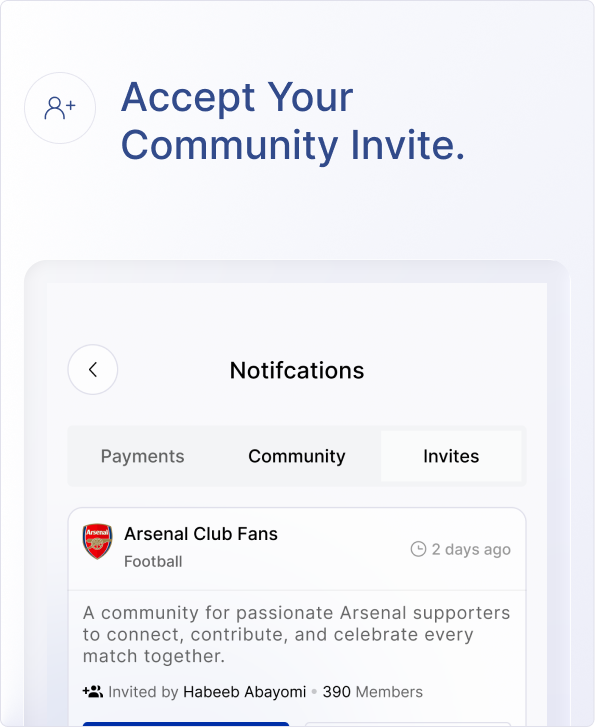
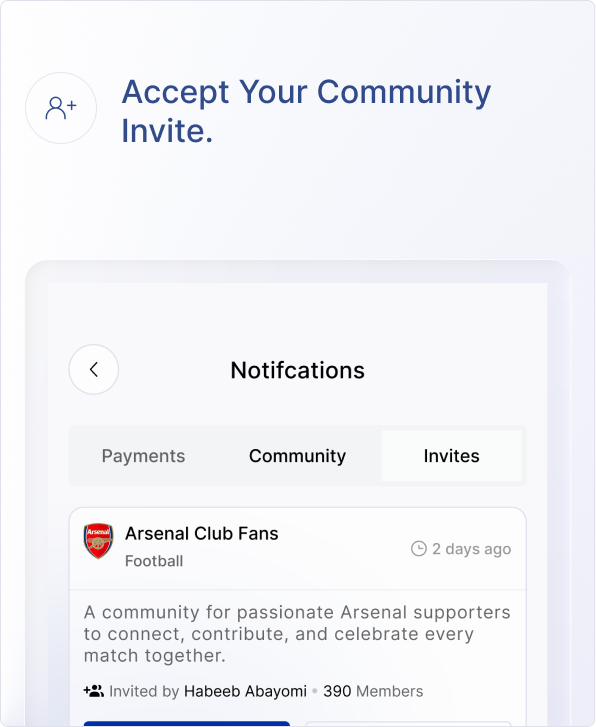
Update remaining How We Work cards to the latest Figma revision
Add Your Members now has heading-on-top like the rest (was still on
the old bottom-heading layout). Refreshed Create Community, Add
Members, Payment Plan, and Accept Invite with the newer exports that
carry the smaller heading font size already applied to Launch/Autopay.
Added dedicated mobile crops for Create Community, Add Members, and
Accept Invite instead of reusing the desktop image responsively.
Also removed the leftover bottom margin on the mobile signup mockup
to match the desktop pb-0 treatment.

diff --git a/src/components/organizations/OrganizationHowItWorks.jsx b/src/components/organizations/OrganizationHowItWorks.jsx
@@ -2,7 +2,9 @@ import { useNavigate } from "react-router-dom";
 import { motion } from "motion/react";
 import { goToApp } from "../../utils/deviceRedirect";
 import orgCreateCommunity from "../../assets/howItWorks/org-create-community.png";
+import orgCreateCommunityMobile from "../../assets/howItWorks/org-create-community-mobile.png";
 import orgAddMembers from "../../assets/howItWorks/org-add-members.png";
+import orgAddMembersMobile from "../../assets/howItWorks/org-add-members-mobile.png";
 import orgPaymentPlan from "../../assets/howItWorks/org-payment-plan.png";
 import orgLaunch from "../../assets/howItWorks/org-launch.png";
 import orgLaunchMobile from "../../assets/howItWorks/org-launch-mobile.png";
@@ -70,8 +72,8 @@ export default function OrganizationHowItWorks() {
 
       {/* Mobile — each card as a full-width responsive image, stacked */}
       <div className="md:hidden relative z-10 flex flex-col gap-4 px-4">
-        <img src={orgCreateCommunity} alt="Create your Community and get started" className="w-full h-auto rounded-[8px]" />
-        <img src={orgAddMembers} alt="Add Your Members" className="w-full h-auto rounded-[8px]" />
+        <img src={orgCreateCommunityMobile} alt="Create your Community and get started" className="w-full h-auto rounded-[8px]" />
+        <img src={orgAddMembersMobile} alt="Add Your Members" className="w-full h-auto rounded-[8px]" />
         <img src={orgPaymentPlan} alt="Create your payment plan" className="w-full h-auto rounded-[8px]" />
         <img src={orgLaunchMobile} alt="Launch Your Community" className="w-full h-auto rounded-[8px]" />
       </div>

diff --git a/src/components/members/MembersHowItWorksSection.jsx b/src/components/members/MembersHowItWorksSection.jsx
@@ -5,6 +5,7 @@ import signupIcon from "../../assets/howItWorks/icon-signup.png";
 import signupCardBg from "../../assets/howItWorks/signup-card-bg.png";
 import signupMockup from "../../assets/howItWorks/member-signup-mockup.png";
 import memberAcceptInvite from "../../assets/howItWorks/member-accept-invite.png";
+import memberAcceptInviteMobile from "../../assets/howItWorks/member-accept-invite-mobile.png";
 import memberAutopay from "../../assets/howItWorks/member-autopay.png";
 import memberAutopayMobile from "../../assets/howItWorks/member-autopay-mobile.png";
 
@@ -94,10 +95,10 @@ export default function MembersHowItWorksSection() {
             <img src={signupIcon} alt="" className="w-[56px] h-[56px]" />
             <h3 className="m-0 text-2xl leading-[1.2] font-medium text-[#24417f]">Sign up for Glass in seconds.</h3>
           </div>
-          <img src={signupMockup} alt="Sign up for Glass" className="relative w-[85%] h-auto mt-6 mb-4 block" />
+          <img src={signupMockup} alt="Sign up for Glass" className="relative w-[85%] h-auto mt-6 block" />
         </div>
         <div className="flex flex-col gap-4 mt-4">
-          <img src={memberAcceptInvite} alt="Accept Your Community Invite" className="w-full h-auto rounded-[8px]" />
+          <img src={memberAcceptInviteMobile} alt="Accept Your Community Invite" className="w-full h-auto rounded-[8px]" />
           <img src={memberAutopayMobile} alt="Automate your dues. Never miss a payment." className="w-full h-auto rounded-[8px]" />
         </div>
       </div>
